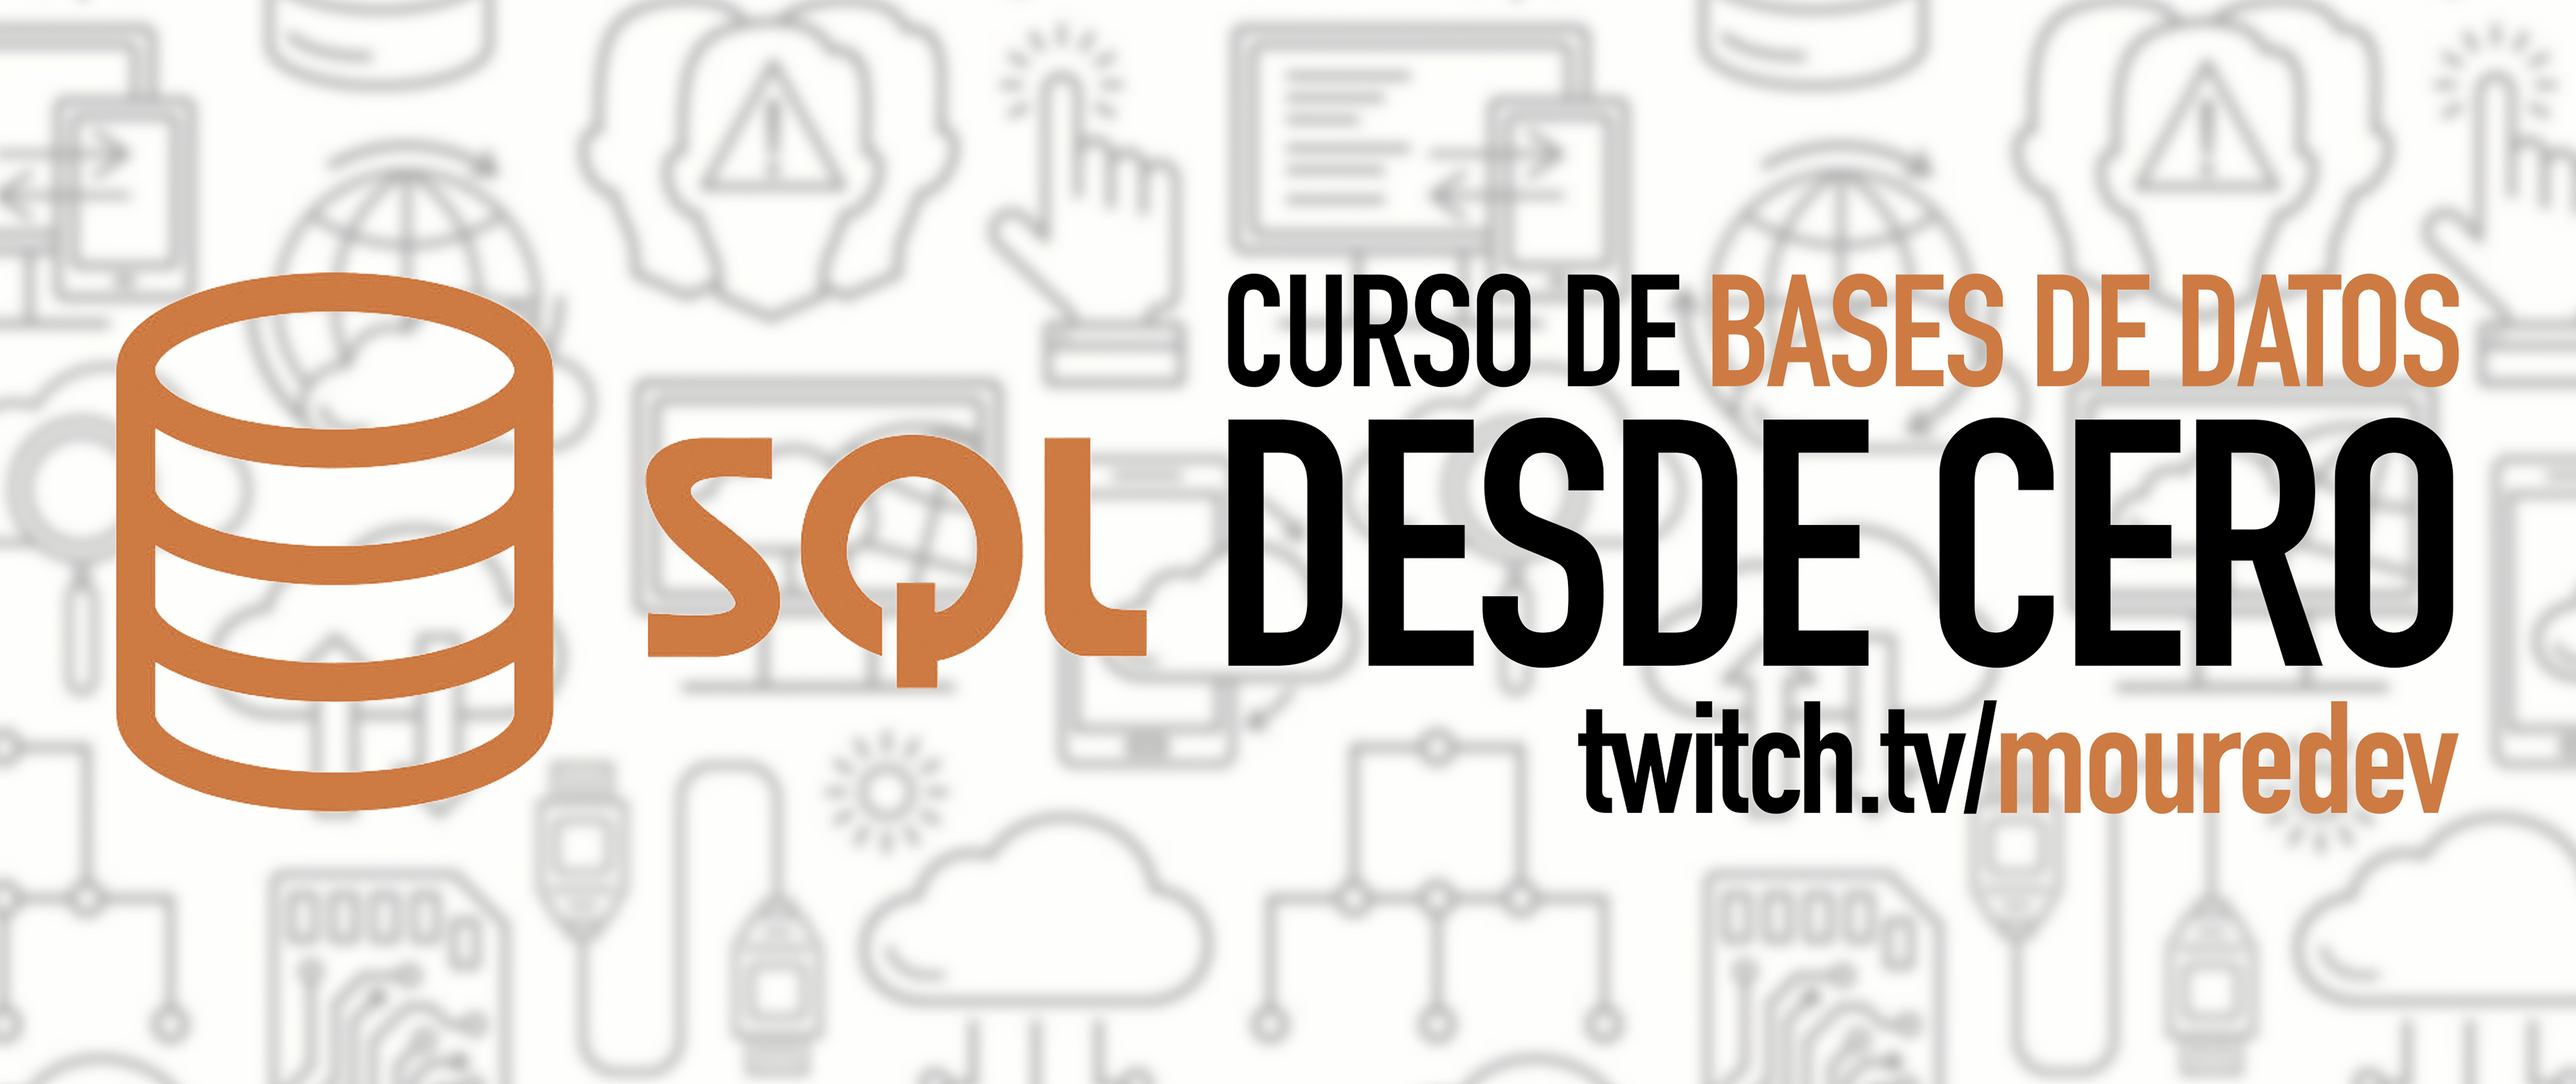
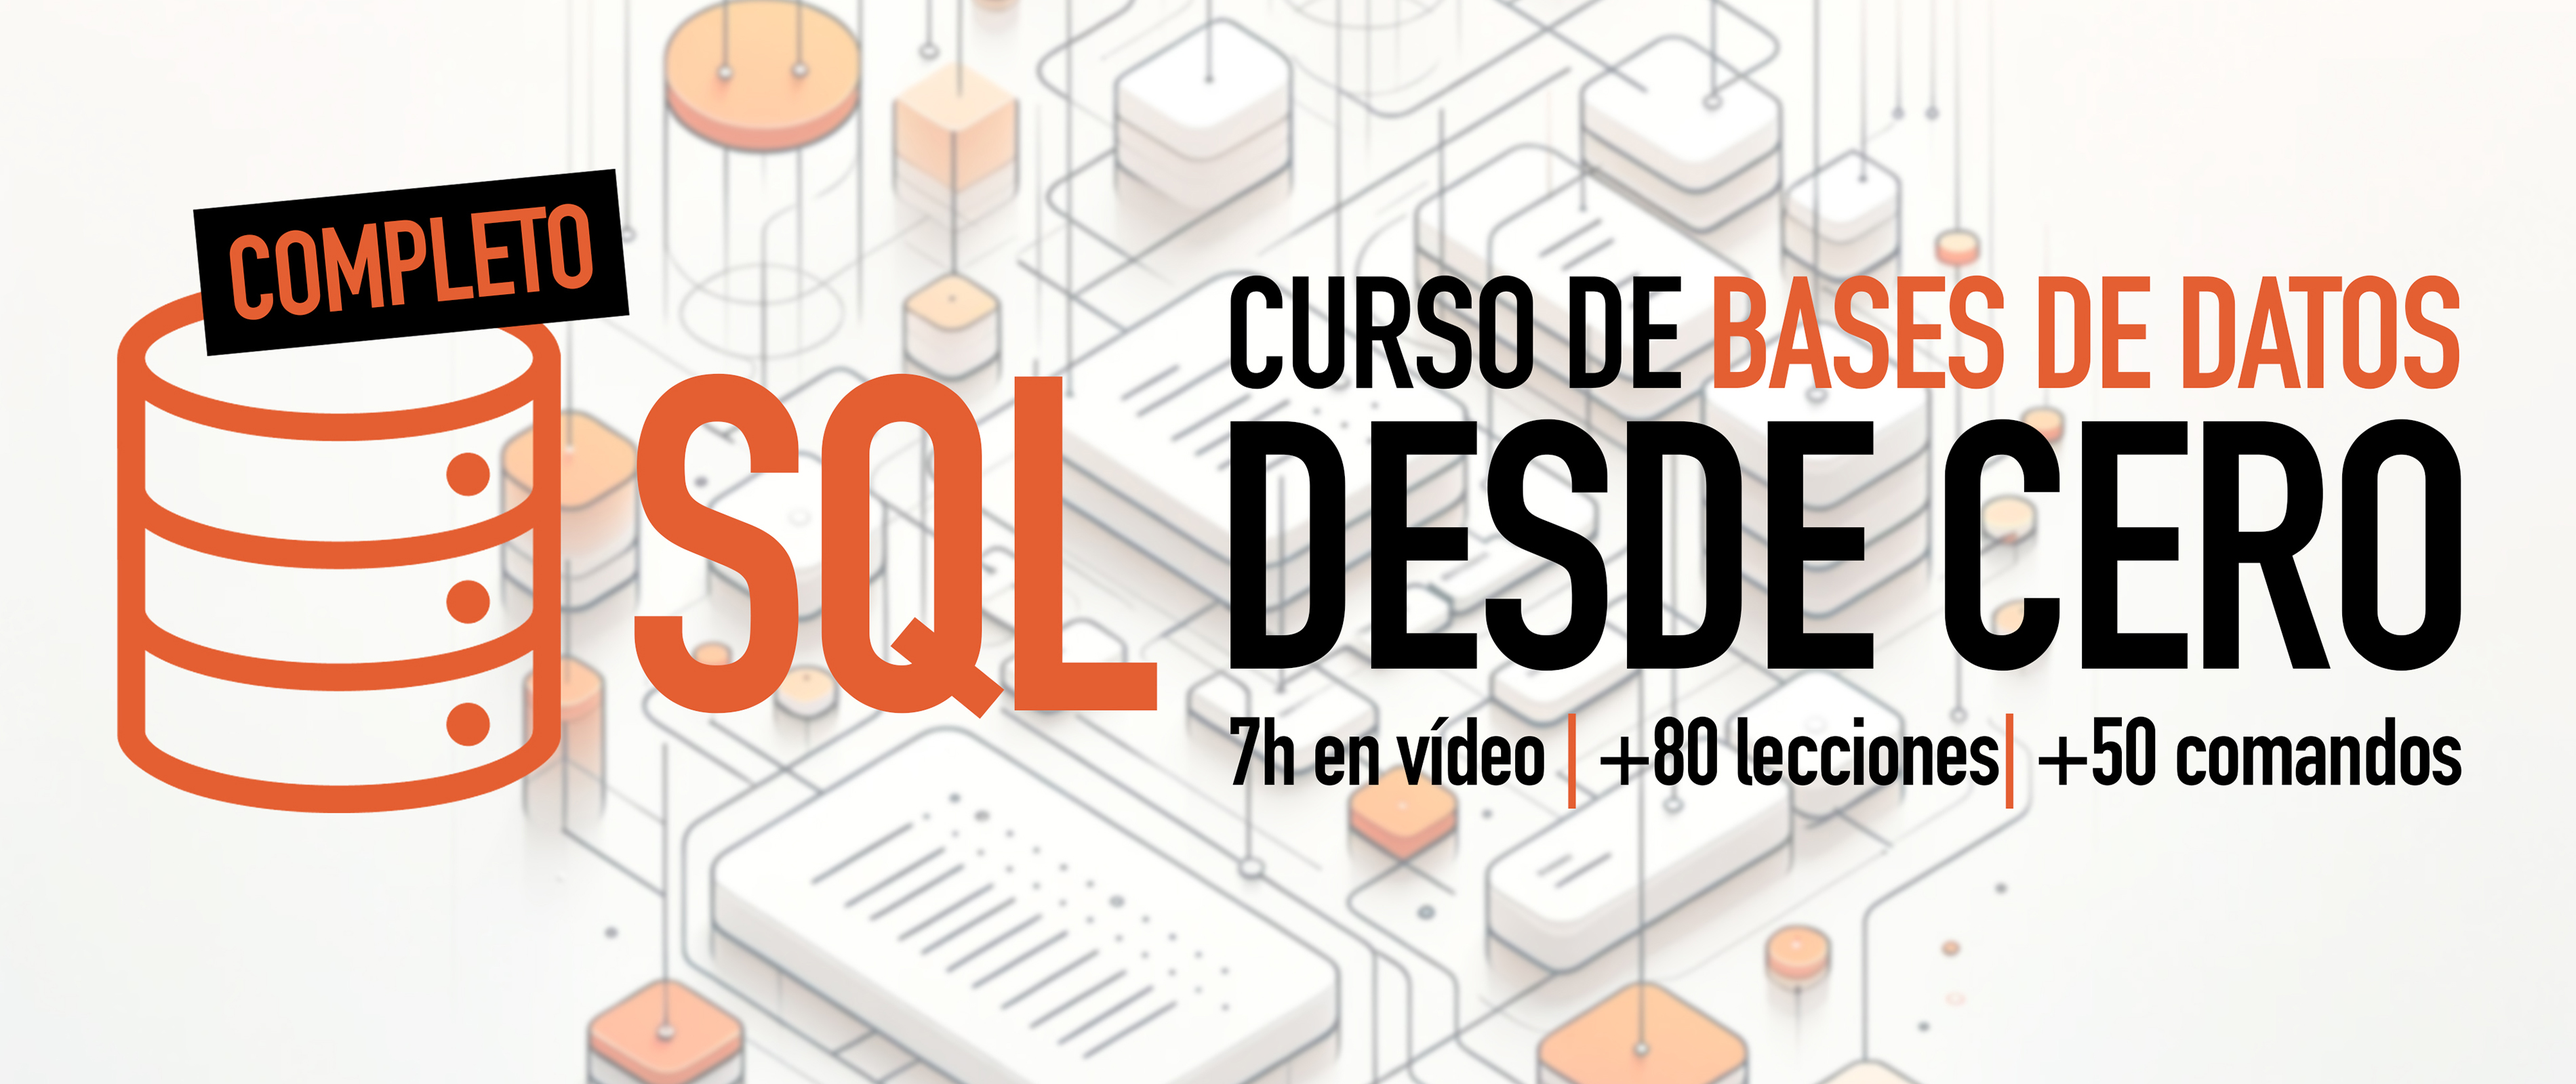
Curso completo en vídeo [WIP]

diff --git a/06_Advanced/06_connectors.py b/06_Advanced/06_connectors.py
@@ -16,6 +16,14 @@ def print_user(user):
         "password": "root1234"
     }
 
+    # config = {
+    #     "host": "bpw0hq9h09e7mqicjhtl-mysql.services.clever-cloud.com",
+    #     "port": "3306",
+    #     "database": "bpw0hq9h09e7mqicjhtl",
+    #     "user": "uqzby88erlhvkrty",
+    #     "password": "oePXiCOHdU1WRV80NPyv"
+    # }
+
     connection = mysql.connector.connect(**config)
     cursor = connection.cursor()
 

diff --git a/README.md b/README.md
@@ -3,47 +3,116 @@
 [![SQL](https://img.shields.io/badge/MySQL-8.0+-f29221?style=for-the-badge&logo=mysql&logoColor=white&labelColor=101010)](https://mysql.com)
 [![SQL](https://img.shields.io/badge/PostgreSQL-16+-699eca?style=for-the-badge&logo=postgresql&logoColor=white&labelColor=101010)](https://postgresql.org)
 
-## Curso para aprender los fundamentos del lenguaje SQL y bases de datos relacionales
+## Curso completo para aprender los fundamentos del lenguaje SQL y bases de datos relacionales
 
 ![](./Images/header.jpg)
+
+### 7 horas de vídeo | +80 lecciones | +50 comandos | con código | desde cero | completo | gratis
 
 ### Proyecto realizado durante emisiones en directo desde [Twitch](https://twitch.tv/mouredev)
 > ##### Si consideras útil el curso, apóyalo haciendo "★ Star" en el repositorio. ¡Gracias!
 
-## Próxima Clase: 14/12/2023 (20:00 hora España) en [Twitch](https://twitch.tv/mouredev)
-### Consulta el horario por país y crea un recordatorio desde [Discord](https://discord.gg/5YJfNwar?event=1183742869731823708).
+## Curso en vídeo
 
-## Clases anteriores
+Este es el curso completo en vídeo de 7 horas asociado al código de este repositorio disponible en YouTube.
 
-### Clase 1 (05/10/2023): Introducción, fundamentos e instalación MySQL 
-#### ▶ [Ver clase en vídeo](https://www.twitch.tv/videos/1943373276?t=00h19m44s)
+## Lecciones
 
-### Clase 2 (12/10/2023): Instalación MySQL Workbench, creación BBDD, tablas y comandos SELECT
-#### ▶ [Ver clase en vídeo](https://www.twitch.tv/videos/1949226275?t=00h25m17s)
+Introducción
 
-### Clase 3 (17/10/2023): Comandos SELECT y de escritura (INSERT, UPDATE y DELETE)
-#### ▶ [Ver clase en vídeo](https://www.twitch.tv/videos/1953432950?t=00h23m40s)
+1. Bases de datos SQL
+2. Sistema de gestión de base de datos
+3. Fundamentos de SQL y bases de datos
+4. Configuración e instalación
+5. Primeros pasos
+6. Conexión y cliente SQL
+7. Inicialización de datos
+8. Consulta de datos: SELECT [[Código]](./01_Reading/01_select.sql)
+9. Modificadores: Parte 1
+	1. DISTINCT [[Código]](./01_Reading/02_distinct.sql)
+	2. WHERE [[Código]](./01_Reading/03_where.sql)
+	3. ORDER BY [[Código]](./01_Reading/04_order_by.sql)
+	4. LIKE [[Código]](./01_Reading/05_like.sql)
+	5. AND, OR, NOT [[Código]](./01_Reading/06_and_or_not.sql)
+	6. LIMIT [[Código]](./01_Reading/07_limit.sql)
+10. Modificadores: Parte 2
+	1. COMENTARIOS
+	2. NULL
+	3. MIN, MAX
+	4. COUNT
+	5. SUM
+	6. AVG
+	7. IN
+	8. BETWEEN
+	9. ALIAS
+	10. CONCAT
+	11. GROUP BY
+	12. HAVING
+	13. CASE
+	14. IFNULL
+	15. OTROS MODIFICADORES
+11. Escritura de datos
+	1. INSERT
+	2. UPDATE
+	3. DELETE
+12. Administración de la base de datos
+	1. CREATE DATABASE
+	2. DROP DATABASE
+13. Administración de tablas
+	1. CREATE TABLE
+	2. NOT NULL
+	3. UNIQUE
+	4. PRIMARY KEY
+	5. CHECK
+	6. DEFAULT
+	7. AUTO INCREMENT
+	8. DROP TABLE
+	9. ALTER TABLE
+	10. ADD
+	11. RENAME COLUMN
+	12. MODIFY COLUMN
+	13. DROP COLUMN
+14. Relaciones entre tablas
+	1. RELACIÓN 1:1
+	2. RELACIÓN 1:N
+	3. RELACIÓN N:M
+	4. AUTOREFERENCIA
+15. Creación de tablas relacionadas
+	1. TABLAS 1:1
+	2. TABLAS 1:N
+	3. TABLAS N:M
+16. Almacenanmiento de datos relacionados
+	1. DATOS 1:1
+	2. DATOS 1:N
+	3. DATOS N:M
+17. Consulta de datos relacionados
+	1. INNER JOIN
+	2. LEFT JOIN
+	3. RIGHT JOIN
+	4. UNION
+18. Conceptos avanzados
+	1. INDEX
+	2. TRIGGER
+	3. VIEW
+	4. STORED PROCEDURE
+	5. TRANSACCIONES
+	6. CONCURRENCIA
+19. Conexión desde código
+	1. CONECTORES
+	2. SQL INJECTION
+20. Otros clientes SQL
+21. PostgresSQL
+22. Despliegue en la nube
+23. Próximos pasos
 
-### Clase 4 (25/10/2023): Comandos DATABASE, TABLE y tipos de relación entre tablas
-#### ▶ [Ver clase en vídeo](https://www.twitch.tv/videos/1959296112?t=00h19m20s)
-
-### Clase 5 (31/10/2023): Comandos JOIN
-#### ▶ [Ver clase en vídeo](https://www.twitch.tv/videos/1965141039?t=00h23m19s)
-
-### Clase 6 (07/12/2023): Conceptos avanzados
-#### ▶ [Ver clase en vídeo](https://www.twitch.tv/videos/1997815022?t=00h25m05s)
+Conclusiones
 
 Durante el curso aprenderemos los fundamentos del lenguaje SQL y las bases de datos relacionales con ejemplos prácticos.
-Nos centraremos en MySQL para llevar a cabo las clases, ya que es uno de los más usados en enseñanza y a nivel profesional. También utilizaremos PostgreSQL ya que es una de las bases de datos más populares de la actualidad. De todas formas, no debe preocuparte el motor de bases de datos utilizado, ya que SQL es un lenguaje estándar, por lo que se utilizará prácticamente igual en todas ellas. Una vez lo conozcas no tendrá dificultad alguna llevar esos conocimientos a otros sistemas.  
-Todo el código estará disponible para que cualquiera pueda usarlo.
+Nos centraremos en MySQL para llevar a cabo las clases, ya que es uno de los más usados en enseñanza y a nivel profesional. También utilizaremos PostgreSQL, por ser una de las bases de datos más populares de la actualidad. De todas formas, no debe preocuparte el motor de bases de datos utilizado, ya que SQL es un lenguaje estándar, por lo que se utilizará prácticamente igual en todas ellas. Una vez lo conozcas no tendrá dificultad alguna llevar esos conocimientos a otros sistemas.  
 
-## Información importante y preguntas frecuentes
+Todo el código creado durante el curso está disponible para que puedas consultarlo junto a su explicación.
 
-Este curso se encuentra en desarrollo. Todo el contenido se crea en directo desde [Twitch](https://www.twitch.tv/mouredev), y en este repositorio podrás encontrar las clases en vídeo, el código programado, enlaces de interés y la información de la próxima clase.
-
-Una vez se finalice, se creará un vídeo que agrupe todas las clases y se publicará en [YouTube](https://www.youtube.com/@mouredev).
-
-* Recuerda que he creado en el [Discord](https://discord.gg/mouredev) un canal "💾bases-de-datos" para que puedas comentar lo que quieras.
+> En el servidor de la comunidad de [Discord](https://discord.gg/mouredev) dispones de un canal llamado "💾bases-de-datos" para que puedas comentar lo que quieras.
 
 ## Enlaces de interés
 
@@ -52,10 +121,8 @@ Una vez se finalice, se creará un vídeo que agrupe todas las clases y se publi
 * [Descarga MySQL](https://dev.mysql.com/downloads/mysql/)
 * [CLI MySQL](https://dev.mysql.com/doc/refman/8.0/en/mysql.html)
 * [MySQL Workbench](https://dev.mysql.com/downloads/workbench)
-
-#### Puedes apoyar mi trabajo haciendo "☆ Star" en el repo o nominarme a "GitHub Star". ¡Gracias!
-
-[![GitHub Star](https://img.shields.io/badge/GitHub-Nominar_a_star-yellow?style=for-the-badge&logo=github&logoColor=white&labelColor=101010)](https://stars.github.com/nominate/)
+* [PostgreSQL](https://www.postgresql.org)
+* [Clever Cloud](https://www.clever-cloud.com)
 
 Si quieres unirte a nuestra comunidad de desarrollo, aprender programación de Apps, mejorar tus habilidades y ayudar a la continuidad del proyecto, puedes encontrarnos en:
 
